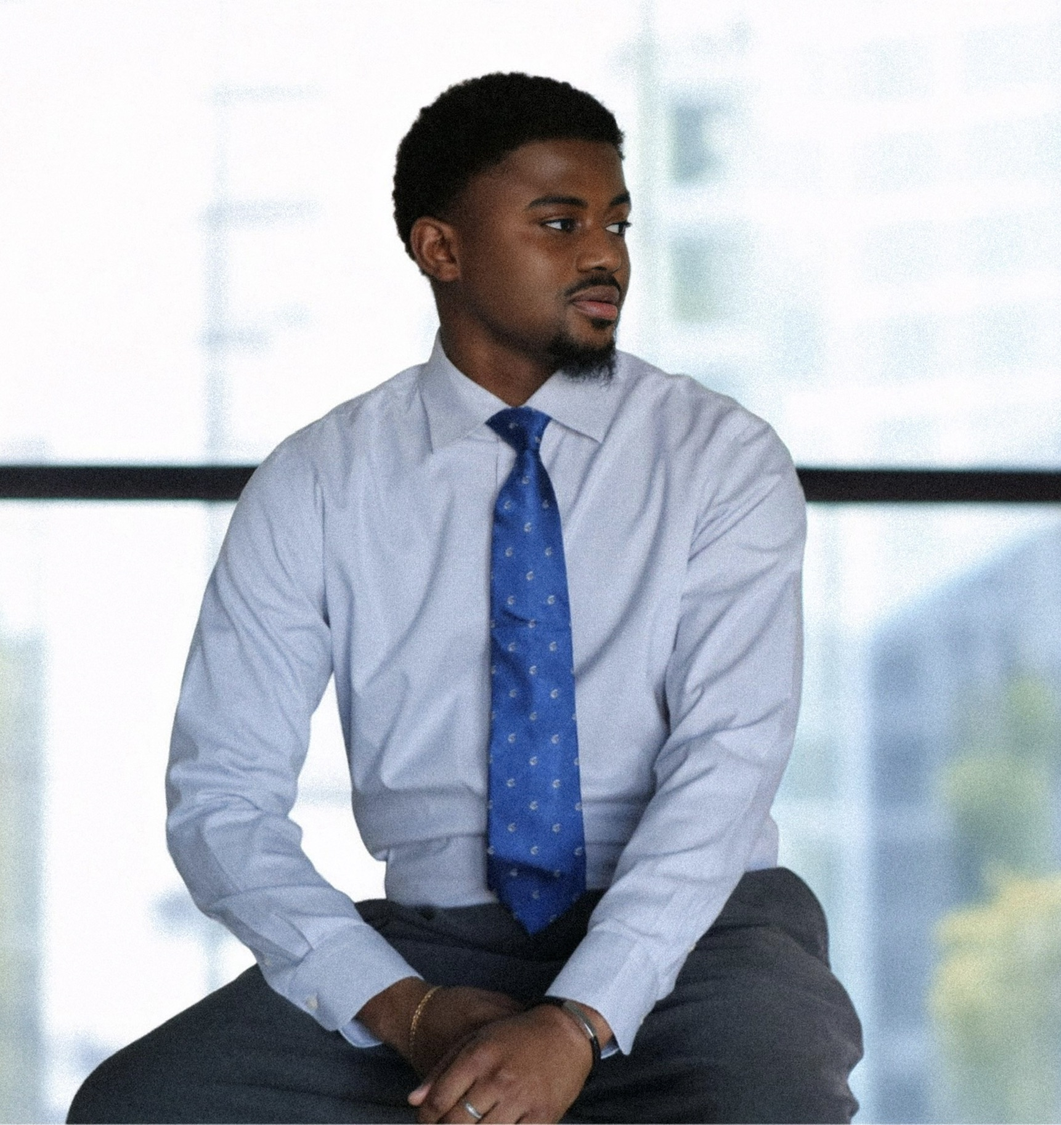
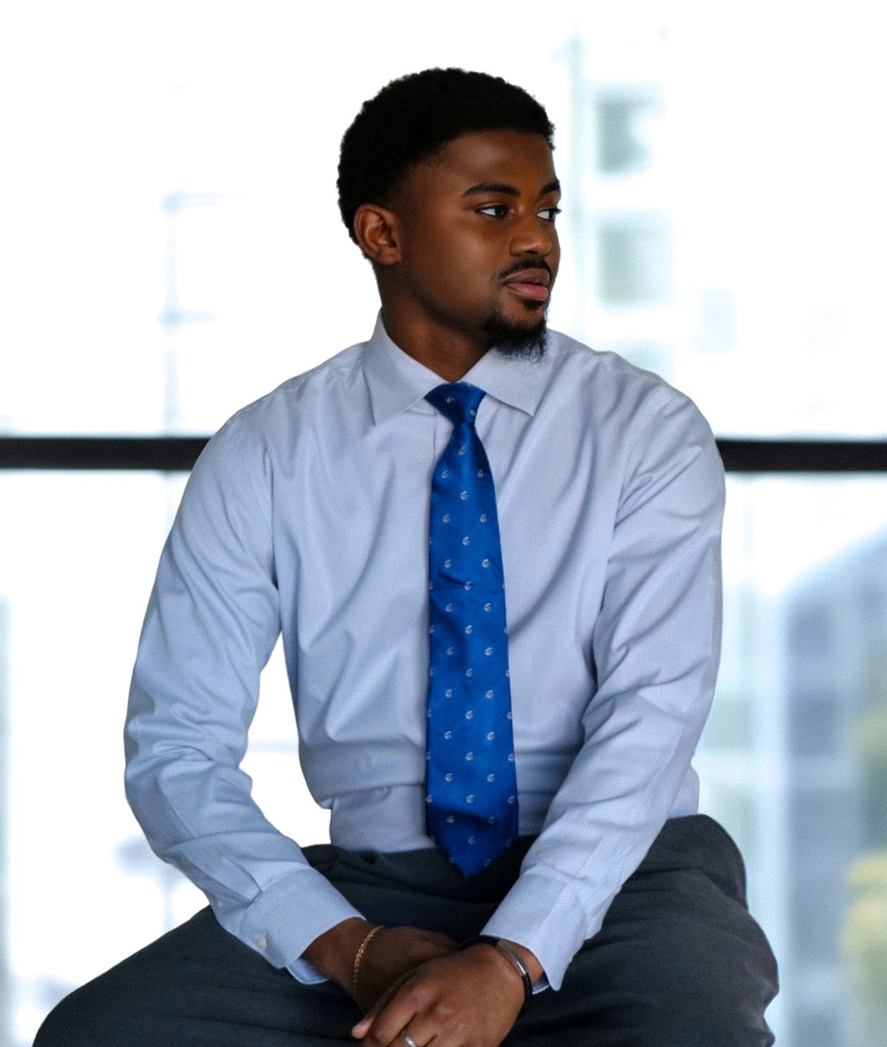
fix: center nav items in desktop header and update founder photo
- Center navigation links horizontally in the header to fix right-aligned layout
- Move Contact button to the right as a standalone element
- Update founder photo

diff --git a/app/components/App.tsx b/app/components/App.tsx
@@ -235,20 +235,21 @@ function Header({ nav, menuOpen, setMenuOpen }: { nav: (p: string) => void; menu
   return (
     <header className={`sticky top-0 z-50 w-full transition-all duration-500 ${scrolled ? 'bg-white/98 backdrop-blur-lg shadow-sm border-b border-slate-100' : 'bg-white'}`}>
       <div className="mx-auto max-w-7xl px-6 lg:px-8">
-        <div className="flex h-20 items-center justify-between">
+        <div className="flex h-20 items-center justify-between relative">
           <button onClick={() => nav('home')} className="flex items-center gap-3 group">
             <img src="/logo.png" alt="Lumina" className="w-10 h-10 object-contain group-hover:scale-105 transition-transform" />
             <span className="text-2xl font-bold tracking-tight text-slate-900 group-hover:text-blue-600 transition-colors">LUMINA</span>
           </button>
 
-          <nav className="hidden md:flex items-center gap-1">
+          <nav className="hidden md:flex items-center gap-1 absolute left-1/2 -translate-x-1/2">
             {[['services','Services'],['education','LUMINA Education'],['a-propos','À propos'],['partners','Partners']].map(([p,l]) => (
               <button key={p} onClick={() => nav(p)} className="px-4 py-2.5 text-slate-600 hover:text-blue-600 hover:bg-blue-50 rounded-lg transition-all font-medium">{l}</button>
             ))}
-            <button onClick={() => nav('contact')} className="ml-3 px-6 py-2.5 bg-slate-900 text-white rounded-lg hover:bg-slate-800 transition-all font-medium btn-dark flex items-center gap-2">
-              Contact <ArrowRight size={16} />
-            </button>
           </nav>
+
+          <button onClick={() => nav('contact')} className="hidden md:flex ml-3 px-6 py-2.5 bg-slate-900 text-white rounded-lg hover:bg-slate-800 transition-all font-medium btn-dark items-center gap-2">
+            Contact <ArrowRight size={16} />
+          </button>
 
           <button onClick={() => setMenuOpen(!menuOpen)} className="md:hidden p-2 hover:bg-slate-100 rounded-lg transition">
             {menuOpen ? <X size={24} /> : <Menu size={24} />}
